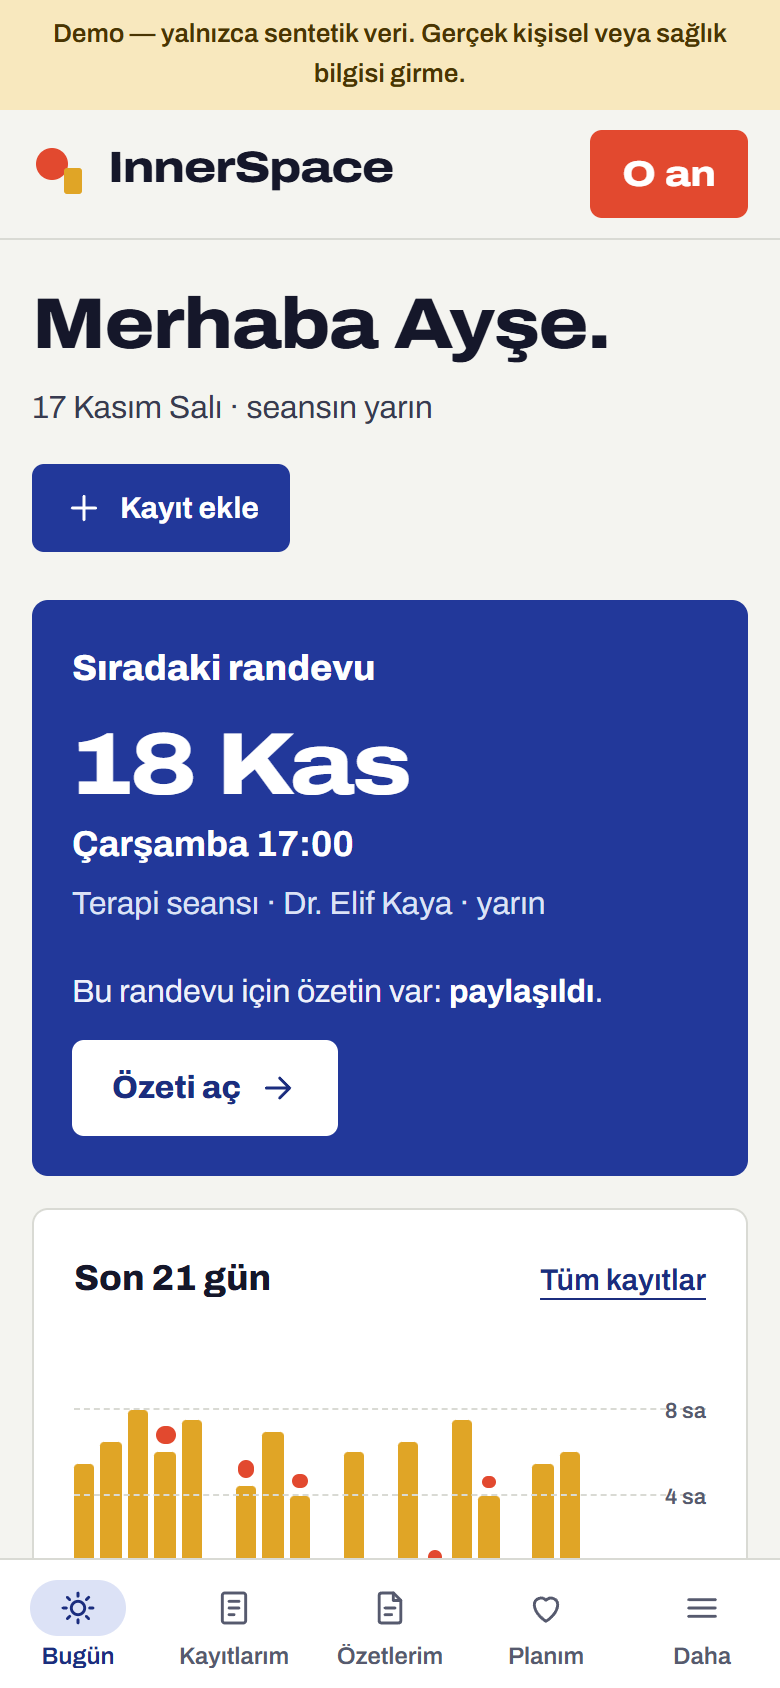
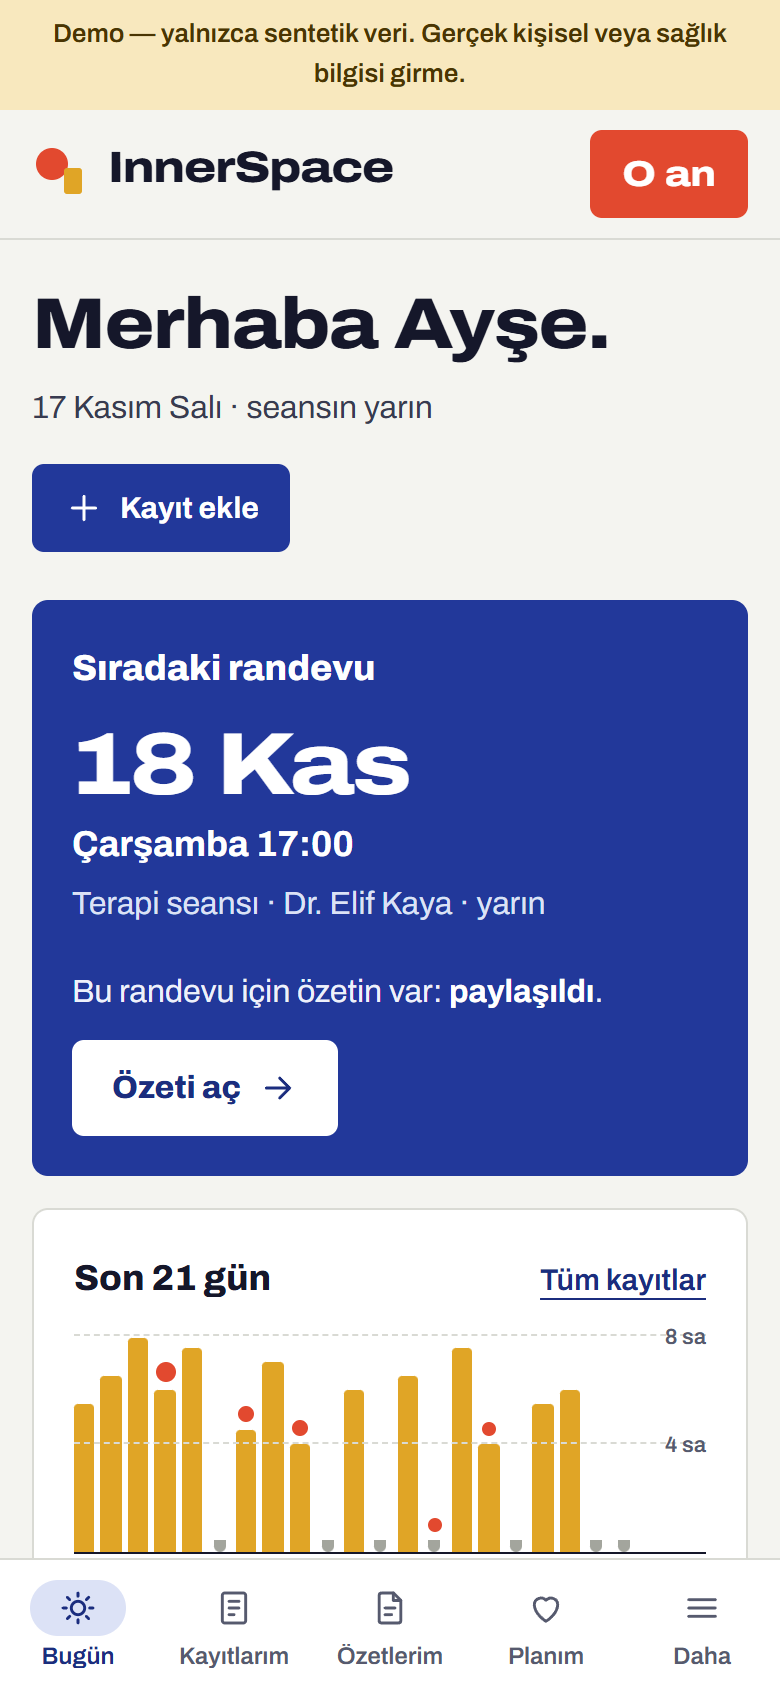
fix(frontend): size the rhythm strip from its data (no empty band above the bars); refresh screenshots

diff --git a/frontend/src/components/RhythmStrip.tsx b/frontend/src/components/RhythmStrip.tsx
@@ -1,10 +1,15 @@
 import type { TrendDay } from '../lib/trend'
 import { Mark } from './Mark'
 
-/** Sleep scale: 10 hours fills the column. */
-const SLEEP_MAX = 10
-/** Share of the column height a full night may take; attack discs stack above it. */
-const SCALE = 86
+/** Headroom (in hours of bar height) a day's attack discs need above its bar. */
+const DISC_ROOM = 1.6
+
+/** The column's top in hours, sized from the data: the tallest bar plus the discs stacked on it,
+ *  so no fixed empty band sits above the bars. */
+export function columnTop(days: TrendDay[]): number {
+  const tops = days.map((d) => (d.sleep ?? 0) + d.attacks.length * DISC_ROOM)
+  return Math.max(4, ...tops) + 0.2
+}
 
 const DAY = new Intl.DateTimeFormat('tr-TR', { day: 'numeric', month: 'short' })
 const WEEKDAY = new Intl.DateTimeFormat('tr-TR', { weekday: 'long', day: 'numeric', month: 'long' })
@@ -15,13 +20,15 @@ const HOURS = new Intl.NumberFormat('tr-TR', { maximumFractionDigits: 1 })
  *  who get the same data as a table. */
 export function RhythmStrip({ days }: { days: TrendDay[] }) {
   const last = days.length - 1
+  const top = columnTop(days)
+  const pct = (h: number) => `${(Math.min(h, top) / top) * 100}%`
   return (
     <figure className="m-0">
       <div aria-hidden>
-        <div className="relative grid h-32 items-end gap-[3px] border-b border-ink pr-9 sm:h-40 sm:gap-1.5" style={{ gridTemplateColumns: `repeat(${days.length}, minmax(0, 1fr))` }}>
+        <div className="relative grid h-28 items-end gap-[3px] border-b border-ink pr-9 sm:h-40 sm:gap-1.5" style={{ gridTemplateColumns: `repeat(${days.length}, minmax(0, 1fr))` }}>
           {/* Hairlines at 4 and 8 hours. */}
-          {[4, 8].map((h) => (
-            <div key={h} className="pointer-events-none absolute inset-x-0 border-t border-dashed border-line" style={{ bottom: `${(h / SLEEP_MAX) * SCALE}%` }}>
+          {[4, 8].filter((h) => h < top).map((h) => (
+            <div key={h} className="pointer-events-none absolute inset-x-0 border-t border-dashed border-line" style={{ bottom: pct(h) }}>
               <span className="num absolute -top-2 right-0 text-[0.6875rem] font-semibold text-muted">{h} sa</span>
             </div>
           ))}
@@ -38,7 +45,7 @@ export function RhythmStrip({ days }: { days: TrendDay[] }) {
               </div>
               <span
                 className={`mark-in block rounded-t-[2px] ${d.sleep == null ? 'mx-auto h-1.5 w-1.5 rounded-full bg-line-strong' : 'w-full bg-sleep'}`}
-                style={d.sleep == null ? { ['--i' as string]: i } : { height: `${(Math.min(d.sleep, SLEEP_MAX) / SLEEP_MAX) * SCALE}%`, ['--i' as string]: i }}
+                style={d.sleep == null ? { ['--i' as string]: i } : { height: pct(d.sleep), ['--i' as string]: i }}
               />
             </div>
           ))}
